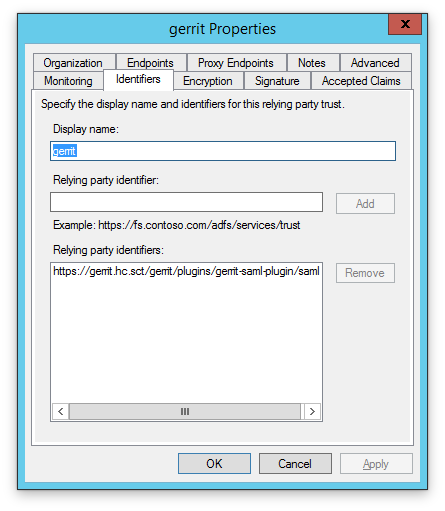
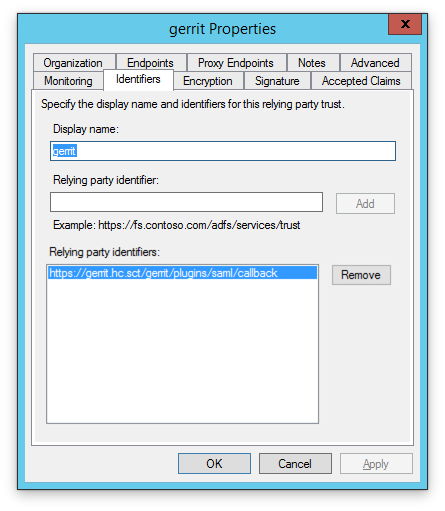
Added useNameQualifier configuration option
- allows disabling useNameQualifier for ADFS 3.0 support
- see https://github.com/pac4j/pac4j/pull/1136

Changed region(s): [[0.0876, 0.4697, 0.9056, 0.8513]]

diff --git a/src/main/java/com/googlesource/gerrit/plugins/saml/SamlConfig.java b/src/main/java/com/googlesource/gerrit/plugins/saml/SamlConfig.java
@@ -37,6 +37,7 @@ public class SamlConfig {
   private final String firstNameAttr;
   private final String lastNameAttr;
   private final int maxAuthLifetimeDefault = 24 * 60 * 60; // 24h;
+  private final boolean useNameQualifier;
 
   @Inject
   SamlConfig(@GerritServerConfig Config cfg) {
@@ -52,6 +53,7 @@ public class SamlConfig {
     computedDisplayName = cfg.getBoolean(SAML_SECTION, "computedDisplayName", false);
     firstNameAttr = getGetStringWithDefault(cfg, "firstNameAttr", "FirstName");
     lastNameAttr = getGetStringWithDefault(cfg, "lastNameAttr", "LastName");
+    useNameQualifier = cfg.getBoolean(SAML_SECTION, "useNameQualifier", true);
   }
 
   public String getMetadataPath() {
@@ -112,5 +114,9 @@ public class SamlConfig {
 
   public String getServiceProviderEntityId() {
     return serviceProviderEntityId;
+  }
+
+  public boolean useNameQualifier() {
+    return useNameQualifier;
   }
 }

diff --git a/src/main/java/com/googlesource/gerrit/plugins/saml/SamlWebFilter.java b/src/main/java/com/googlesource/gerrit/plugins/saml/SamlWebFilter.java
@@ -86,6 +86,8 @@ class SamlWebFilter implements Filter {
       samlClientConfig.setServiceProviderEntityId(samlConfig.getServiceProviderEntityId());
     }
 
+    samlClientConfig.setUseNameQualifier(samlConfig.useNameQualifier());
+
     saml2Client = new SAML2Client(samlClientConfig);
     String callbackUrl = gerritConfig.getString("gerrit", null, "canonicalWebUrl") + SAML_CALLBACK;
     httpUserNameHeader = getHeaderFromConfig(gerritConfig, "httpHeader");

diff --git a/adfs/README.md b/adfs/README.md
@@ -25,6 +25,7 @@ using SAML for Authentication, LDAP for authorization and running gerrit under t
         keystorePassword = pac4j-demo-password
         privateKeyPassword = pac4j-demo-password
         metadataPath = file:///home/gerrit/FederationMetadata.xml
+        useNameQualifier = false
     [ldap]
             server = ldap://fs.hc.sct
             username = CN=Administrator,CN=Users,DC=hc,DC=sct
@@ -55,7 +56,7 @@ Monitoring: unmodified
 
 ![][screen01]
 
-Identifiers: The relying party identifier is: `https://gerrit.hc.sct/gerrit/plugins/gerrit-saml-plugin/saml`
+Identifiers: The relying party identifier is: `https://gerrit.hc.sct/gerrit/plugins/saml/callback`
 
 ![][screen02]
 
@@ -75,7 +76,7 @@ Organization: unmodified
 
 ![][screen06]
 
-Endpoints: URL is `https://gerrit.hc.sct/gerrit/plugins/gerrit-saml-plugin/saml`, binding POST
+Endpoints: URL is `https://gerrit.hc.sct/gerrit/plugins/saml/callback`, binding POST
 
 ![][screen07]
 
@@ -125,12 +126,3 @@ Delegation Authorization Rules: unmodified
 [screen14]: images/13.png   "screen 14"
 [screen15]: images/14.png   "screen 15"
 [screen16]: images/15.png   "screen 16"
-
-
-
-
-
-
-
-
-

diff --git a/README.md b/README.md
@@ -182,3 +182,7 @@ Default is `UserName`
 **saml.serviceProviderEntityId**: Saml service provider entity id
 
 Default is not set.
+
+**saml.useNameQualifier**: By SAML specification, the authentication request must not contain a NameQualifier, if the SP entity is in the format nameid-format:entity. However, some IdP require that information to be present. You can force a NameQualifier in the request with the useNameQualifier parameter. For ADFS 3.0 support, set this to `false`.
+
+Default is true.
